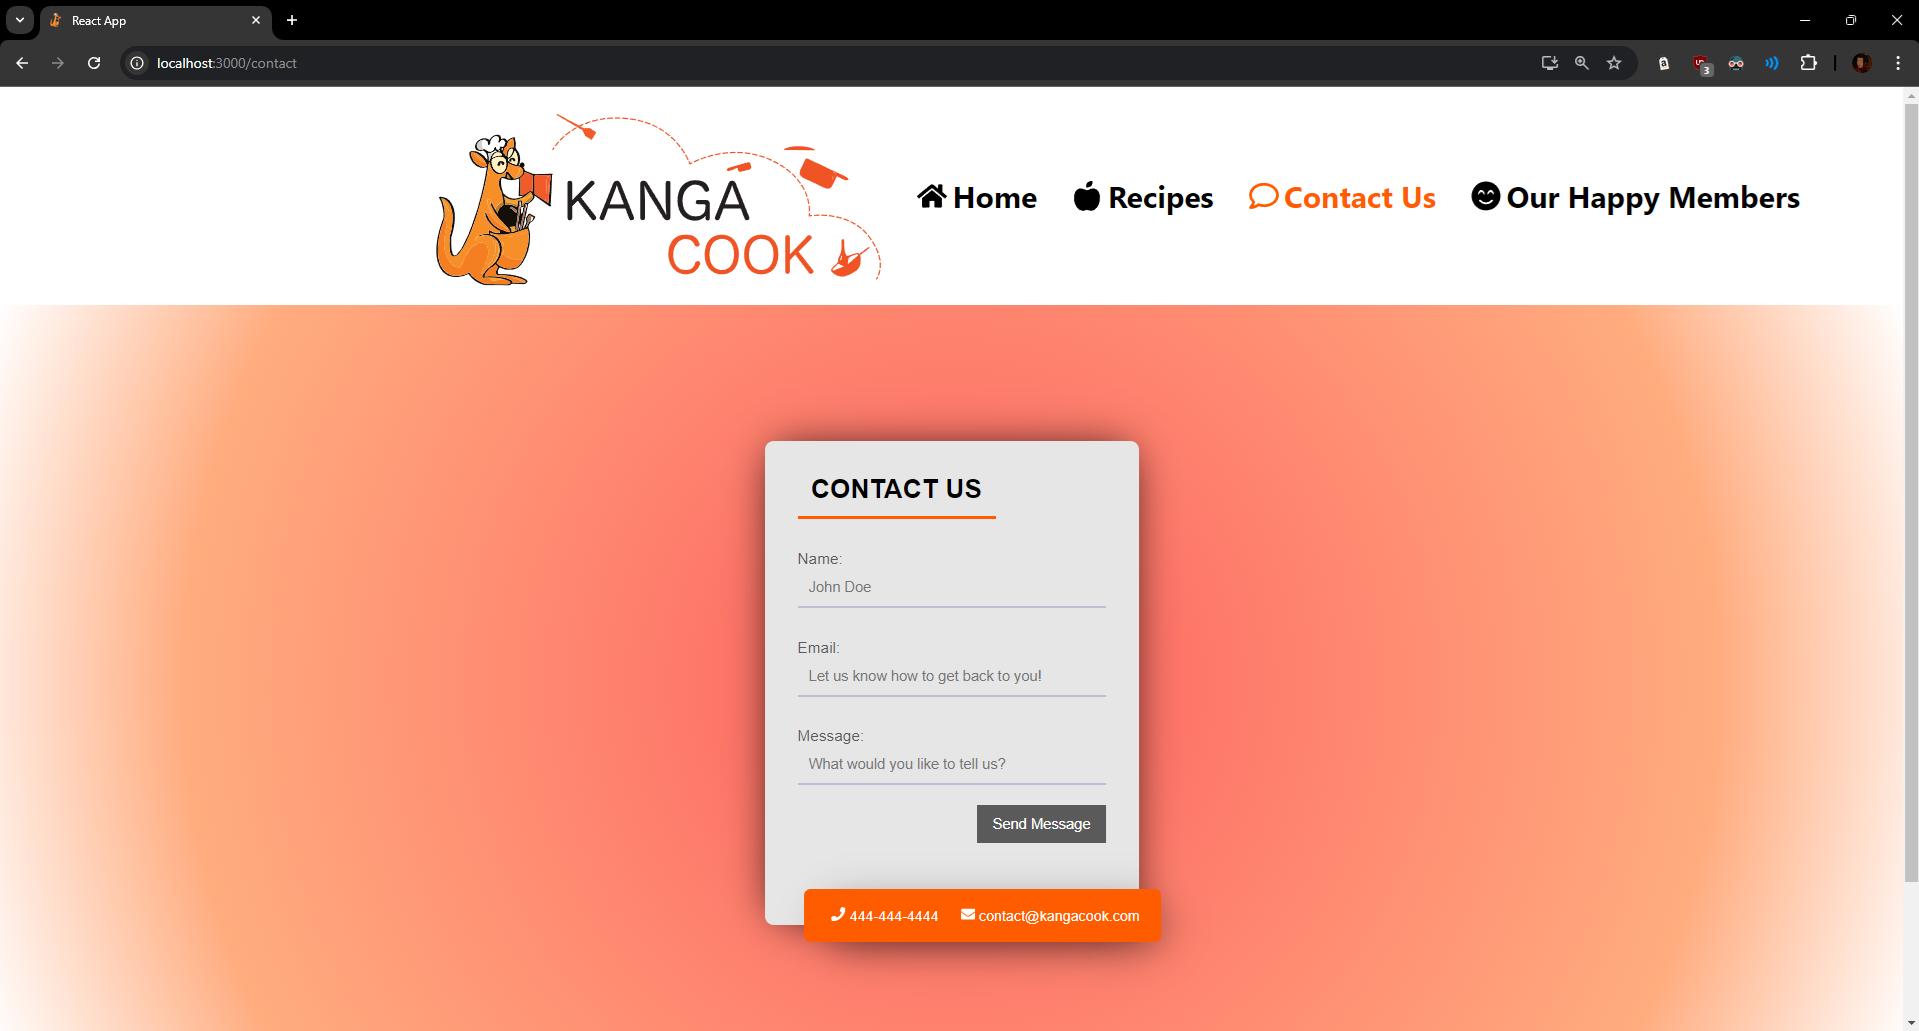
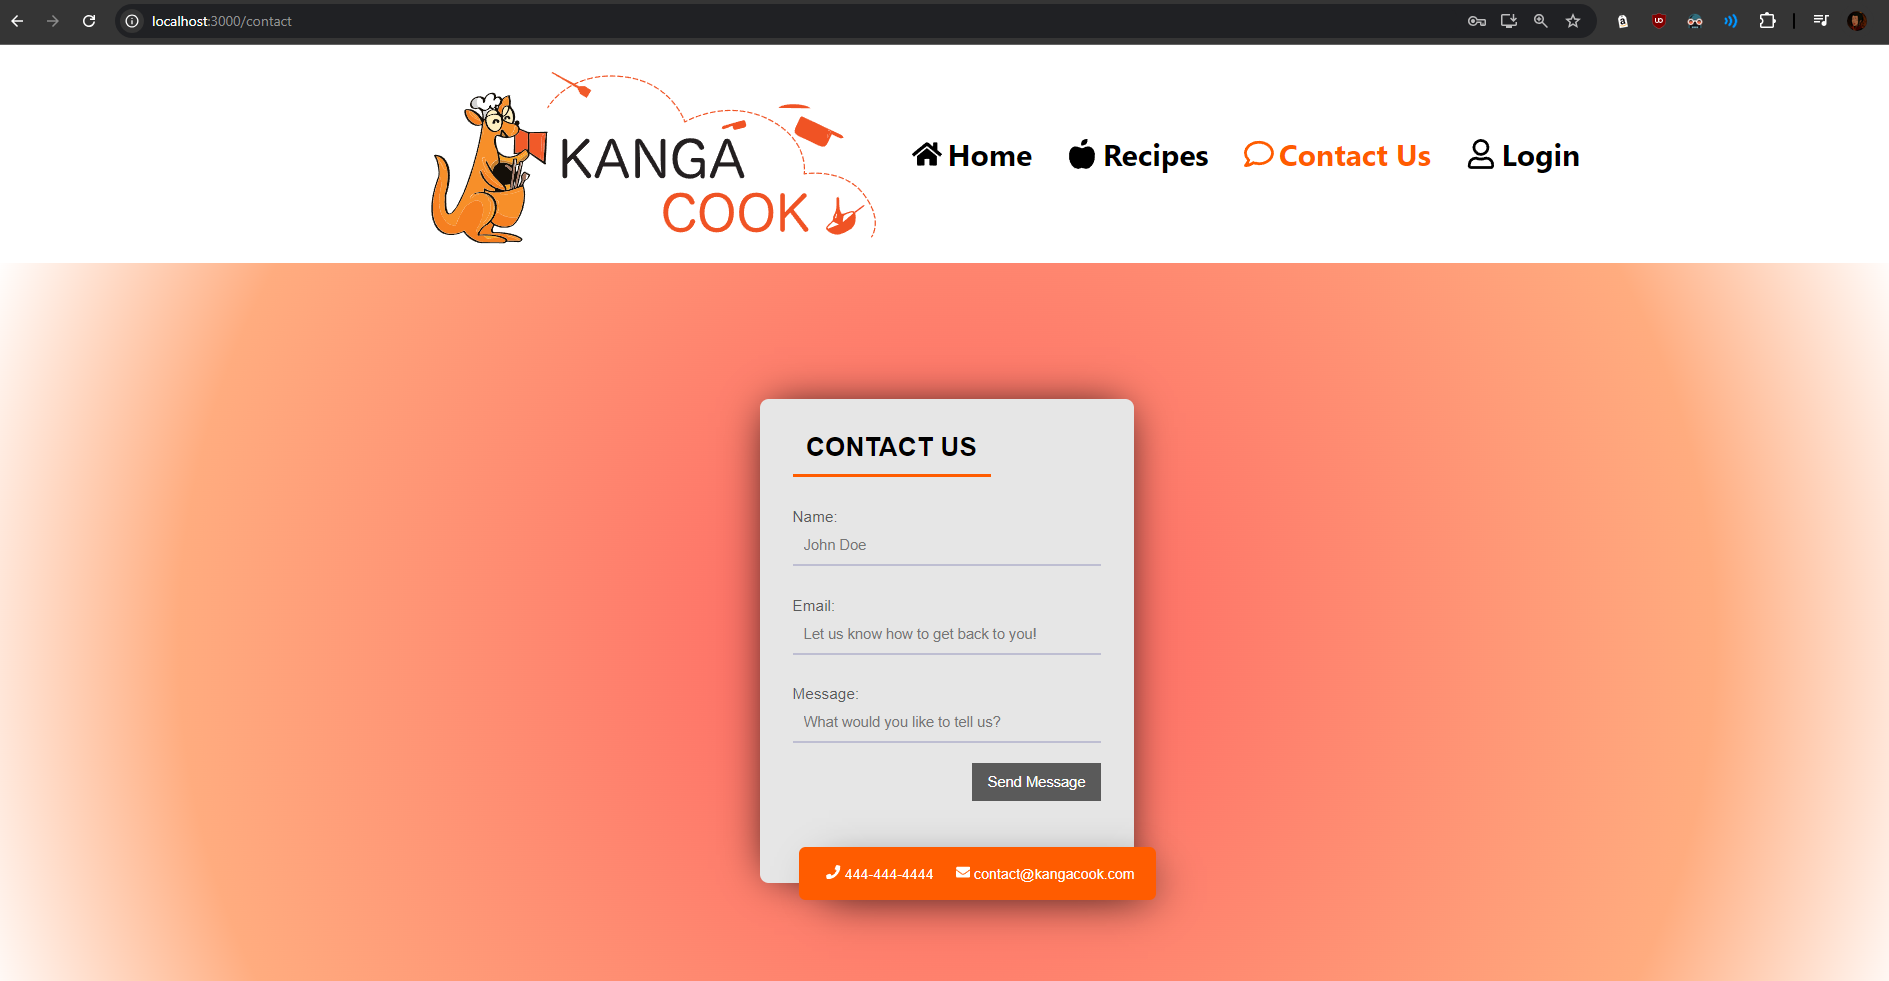
Updated README and images

Changed region(s): [[0.0, 0.0, 1.0, 0.8563], [0.3748, 0.367, 0.6247, 0.9174], [0.4685, 0.1223, 0.937, 0.2141]]

diff --git a/README.md b/README.md
@@ -38,7 +38,7 @@ Seeds the data with pre-created recipes
         "id": 3,
         "title": "Mapo Tofu",
         "description": "Silken tofu awash in a fiery málà sauce, heightened by the addition of salty sweet black beans and ground beef.",
-        "image": "https://www.seriouseats.com/thmb/WPxApB-69YAughV6jf7AWZQnd6M=/750x0/filters:no_upscale():max_bytes(150000):strip_icc():format(webp)/__opt__aboutcom__coeus__resources__content_migration__serious_eats__seriouseats.com__images__2014__08__vegan-mapo-tofu-kenji-502201f86bf740ae8361bb8fc9b68feb.jpg",
+        "image": "https://www.cookwithmanali.com/wp-content/uploads/2021/03/Vegan-Mapo-Tofu.jpg",
         "cuisine": "Szechuan"
     },
     ...
@@ -70,7 +70,11 @@ Seeds the data with pre-created users
 ![RecipeCarousel](https://github.com/meganle414/kangacook/blob/main/images/recipe_carousel.png?raw=true)
 ![RecipeList](https://github.com/meganle414/kangacook/blob/main/images/recipe_list.png?raw=true)
 ![Contact Page](https://github.com/meganle414/kangacook/blob/main/images/contact.png?raw=true)
-![Members](https://github.com/meganle414/kangacook/blob/main/images/members.png?raw=true)
+![Login Page](https://github.com/meganle414/kangacook/blob/main/images/login.png?raw=true)
+![Invalid Email or Password Login Error](https://github.com/meganle414/kangacook/blob/main/images/invalid_email_password_login_error.png?raw=true)
+![Sign Up Page](https://github.com/meganle414/kangacook/blob/main/images/sign_up.png?raw=true)
+![Existing User Sign Up Error](https://github.com/meganle414/kangacook/blob/main/images/existing_user_sign_up_error.png?raw=true)
+![Mismatching Password Sign Up Error](https://github.com/meganle414/kangacook/blob/main/images/mismatching_password_sign_up_error.png?raw=true)
 
 # kangacook
 Develop a simple website:  • Frontend: Use React.js to build a simple web page (whatever you like to present). Just like to see if you know how to use components with React. • Backend: Use Django to build at least two API endpoints for the frontend page you created to use.
